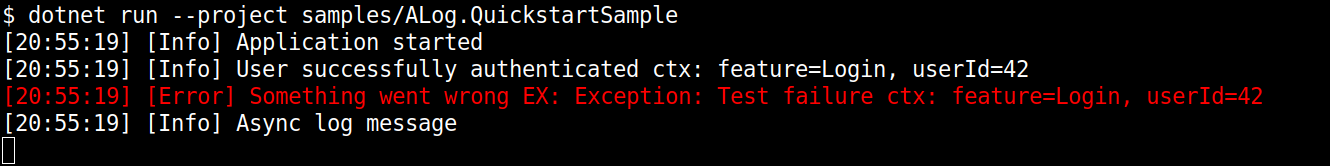
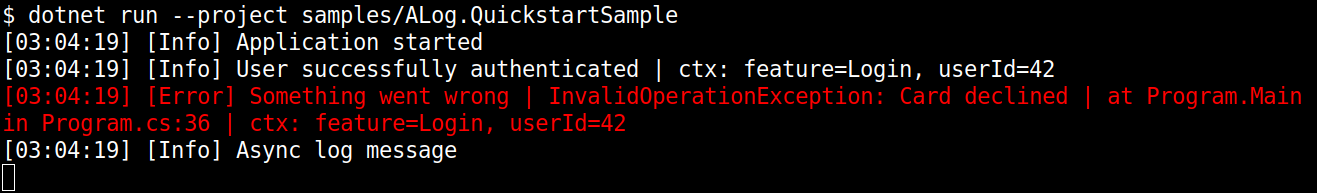
Show the exception format in the Quick Start sample.
Step 2 throws and catches InvalidOperationException ("Card declined") and logs it as an error. PathMap rewrites the sample build path to /_/, so the console line and the JSON stack name Program.Main without a machine path. The screenshot, transcript, and excerpt are that run.

Changed region(s): [[0.0, 0.0301, 0.9962, 0.8434], [0.0, 0.9639, 0.0311, 0.994]]

diff --git a/samples/ALog.QuickstartSample/Program.cs b/samples/ALog.QuickstartSample/Program.cs
@@ -5,28 +5,47 @@ using ALog.Writers.Console;
 using ALog.Writers.File;
 using ALog.Formatters;
 
-var config = new LoggerConfig()
-    .AddWriter(new ConsoleLogWriter(useColors: true, formatter: new PlainTextFormatter("HH:mm:ss")))
-    .AddWriter(new FileLogWriter("logs/app.log", new JsonFormatter(pretty: true), maxFileSizeInBytes: 1_048_576)) // 1 MB
-    .SetMinimumLevel(LogLevel.Debug);
+internal static class Program
+{
+    /// <summary>
+    /// Runs the Quick Start and waits until the console and file writers have finished.
+    /// Step 2 throws and catches <see cref="InvalidOperationException"/> ("Card declined")
+    /// and logs that exception at error, so the recorded frame is <c>Program.Main</c>.
+    /// The entry point stays synchronous; an async Main would record a compiler state machine instead.
+    /// </summary>
+    private static void Main()
+    {
+        var config = new LoggerConfig()
+            .AddWriter(new ConsoleLogWriter(useColors: true, formatter: new PlainTextFormatter("HH:mm:ss")))
+            .AddWriter(new FileLogWriter("logs/app.log", new JsonFormatter(pretty: true), maxFileSizeInBytes: 1_048_576)) // 1 MB
+            .SetMinimumLevel(LogLevel.Debug);
 
-Log.Init(config);
+        Log.Init(config);
 // readme:step1:end
 
 // readme:step2:begin
-Log.Write("Application started");
+        Log.Write("Application started");
 
-using (Log.BeginScope("userId", 42))
-{
-    using (Log.BeginScope("feature", "Login"))
-    {
-        Log.Write("User successfully authenticated");
-        Log.Write(new Exception("Test failure"), "Something went wrong", LogLevel.Error);
+        using (Log.BeginScope("userId", 42))
+        {
+            using (Log.BeginScope("feature", "Login"))
+            {
+                Log.Write("User successfully authenticated");
+                try
+                {
+                    throw new InvalidOperationException("Card declined");
+                }
+                catch (InvalidOperationException ex)
+                {
+                    Log.Write(ex, "Something went wrong", LogLevel.Error);
+                }
+            }
+        }
+
+        Log.WriteAsync("Async log message").GetAwaiter().GetResult();
+
+        Log.FlushAsync().GetAwaiter().GetResult();
+        Log.Shutdown();
     }
 }
-
-await Log.WriteAsync("Async log message");
-
-await Log.FlushAsync();
-Log.Shutdown();
 // readme:step2:end

diff --git a/ALog.Tests/ExceptionFormatTests.cs b/ALog.Tests/ExceptionFormatTests.cs
@@ -2048,7 +2048,7 @@ public sealed class ExceptionFormatTests
 
     /// <summary>
     /// README console and formatter sections, and the changelog bullets, use the decided sentences.
-    /// Quick Start step 1 and step 2 stay the sample that the documentation pull request owns.
+    /// Quick Start step 2 throws and catches a card decline and logs that exception.
     /// </summary>
     [Fact(Timeout = 30000)]
     public async Task Docs_LockExceptionFormatText()
@@ -2065,7 +2065,8 @@ public sealed class ExceptionFormatTests
         Assert.Contains("Type: Message", formatters, StringComparison.Ordinal);
         Assert.Contains("source", formatters, StringComparison.Ordinal);
         Assert.Contains("inner", formatters, StringComparison.Ordinal);
-        Assert.Contains("Log.Write(new Exception(\"Test failure\"), \"Something went wrong\", LogLevel.Error);", readme, StringComparison.Ordinal);
+        Assert.Contains("throw new InvalidOperationException(\"Card declined\");", readme, StringComparison.Ordinal);
+        Assert.Contains("Log.Write(ex, \"Something went wrong\", LogLevel.Error);", readme, StringComparison.Ordinal);
         Assert.Contains("new PlainTextFormatter(\"HH:mm:ss\")", readme, StringComparison.Ordinal);
         Assert.Contains("### Breaking (output)", changelog, StringComparison.Ordinal);
         Assert.Contains(BreakingBullet, changelog, StringComparison.Ordinal);

diff --git a/eng/readme-example-check.py b/eng/readme-example-check.py
@@ -3,7 +3,7 @@
 # Command: dotnet run --project samples/ALog.QuickstartSample
 # Terminal: XTerm(390) on Xvfb, background black, foreground white.
 # Font: DejaVu Sans Mono, size 16.
-# Window size: 1330x166 pixels, xterm geometry 102x6.
+# Window size: 1317x193 pixels, xterm geometry 101x7.
 """Keep the Quick Start README example tied to one real run.
 
 The sample, the screenshot text, and the JSON excerpt are allowed to change

diff --git a/README.md b/README.md
@@ -77,32 +77,51 @@ using ALog.Writers.Console;
 using ALog.Writers.File;
 using ALog.Formatters;
 
-var config = new LoggerConfig()
-    .AddWriter(new ConsoleLogWriter(useColors: true, formatter: new PlainTextFormatter("HH:mm:ss")))
-    .AddWriter(new FileLogWriter("logs/app.log", new JsonFormatter(pretty: true), maxFileSizeInBytes: 1_048_576)) // 1 MB
-    .SetMinimumLevel(LogLevel.Debug);
+internal static class Program
+{
+    /// <summary>
+    /// Runs the Quick Start and waits until the console and file writers have finished.
+    /// Step 2 throws and catches <see cref="InvalidOperationException"/> ("Card declined")
+    /// and logs that exception at error, so the recorded frame is <c>Program.Main</c>.
+    /// The entry point stays synchronous; an async Main would record a compiler state machine instead.
+    /// </summary>
+    private static void Main()
+    {
+        var config = new LoggerConfig()
+            .AddWriter(new ConsoleLogWriter(useColors: true, formatter: new PlainTextFormatter("HH:mm:ss")))
+            .AddWriter(new FileLogWriter("logs/app.log", new JsonFormatter(pretty: true), maxFileSizeInBytes: 1_048_576)) // 1 MB
+            .SetMinimumLevel(LogLevel.Debug);
 
-Log.Init(config);
+        Log.Init(config);
 ```
 
 ### Step 2: Start Logging
 
 ```csharp
-Log.Write("Application started");
+        Log.Write("Application started");
 
-using (Log.BeginScope("userId", 42))
-{
-    using (Log.BeginScope("feature", "Login"))
-    {
-        Log.Write("User successfully authenticated");
-        Log.Write(new Exception("Test failure"), "Something went wrong", LogLevel.Error);
+        using (Log.BeginScope("userId", 42))
+        {
+            using (Log.BeginScope("feature", "Login"))
+            {
+                Log.Write("User successfully authenticated");
+                try
+                {
+                    throw new InvalidOperationException("Card declined");
+                }
+                catch (InvalidOperationException ex)
+                {
+                    Log.Write(ex, "Something went wrong", LogLevel.Error);
+                }
+            }
+        }
+
+        Log.WriteAsync("Async log message").GetAwaiter().GetResult();
+
+        Log.FlushAsync().GetAwaiter().GetResult();
+        Log.Shutdown();
     }
 }
-
-await Log.WriteAsync("Async log message");
-
-await Log.FlushAsync();
-Log.Shutdown();
 ```
 
 ### Example output
@@ -115,19 +134,25 @@ The first entry and the error entry from `logs/app.log` of the same run:
 
 ```json
 {
-  "timestamp": "2026-10-20T20:55:19.4758886Z",
+  "timestamp": "2026-10-22T03:04:19.8022471Z",
   "level": "Info",
   "message": "Application started",
   "properties": {},
   "context": {}
 }
 {
-  "timestamp": "2026-10-20T20:55:19.5318101Z",
+  "timestamp": "2026-10-22T03:04:19.8559513Z",
   "level": "Error",
   "message": "Something went wrong",
   "exception": {
-    "type": "System.Exception",
-    "message": "Test failure"
+    "type": "System.InvalidOperationException",
+    "message": "Card declined",
+    "stackTrace": "   at Program.Main() in /_/Program.cs:line 36",
+    "source": {
+      "method": "Program.Main",
+      "file": "Program.cs",
+      "line": 36
+    }
   },
   "properties": {},
   "context": {
